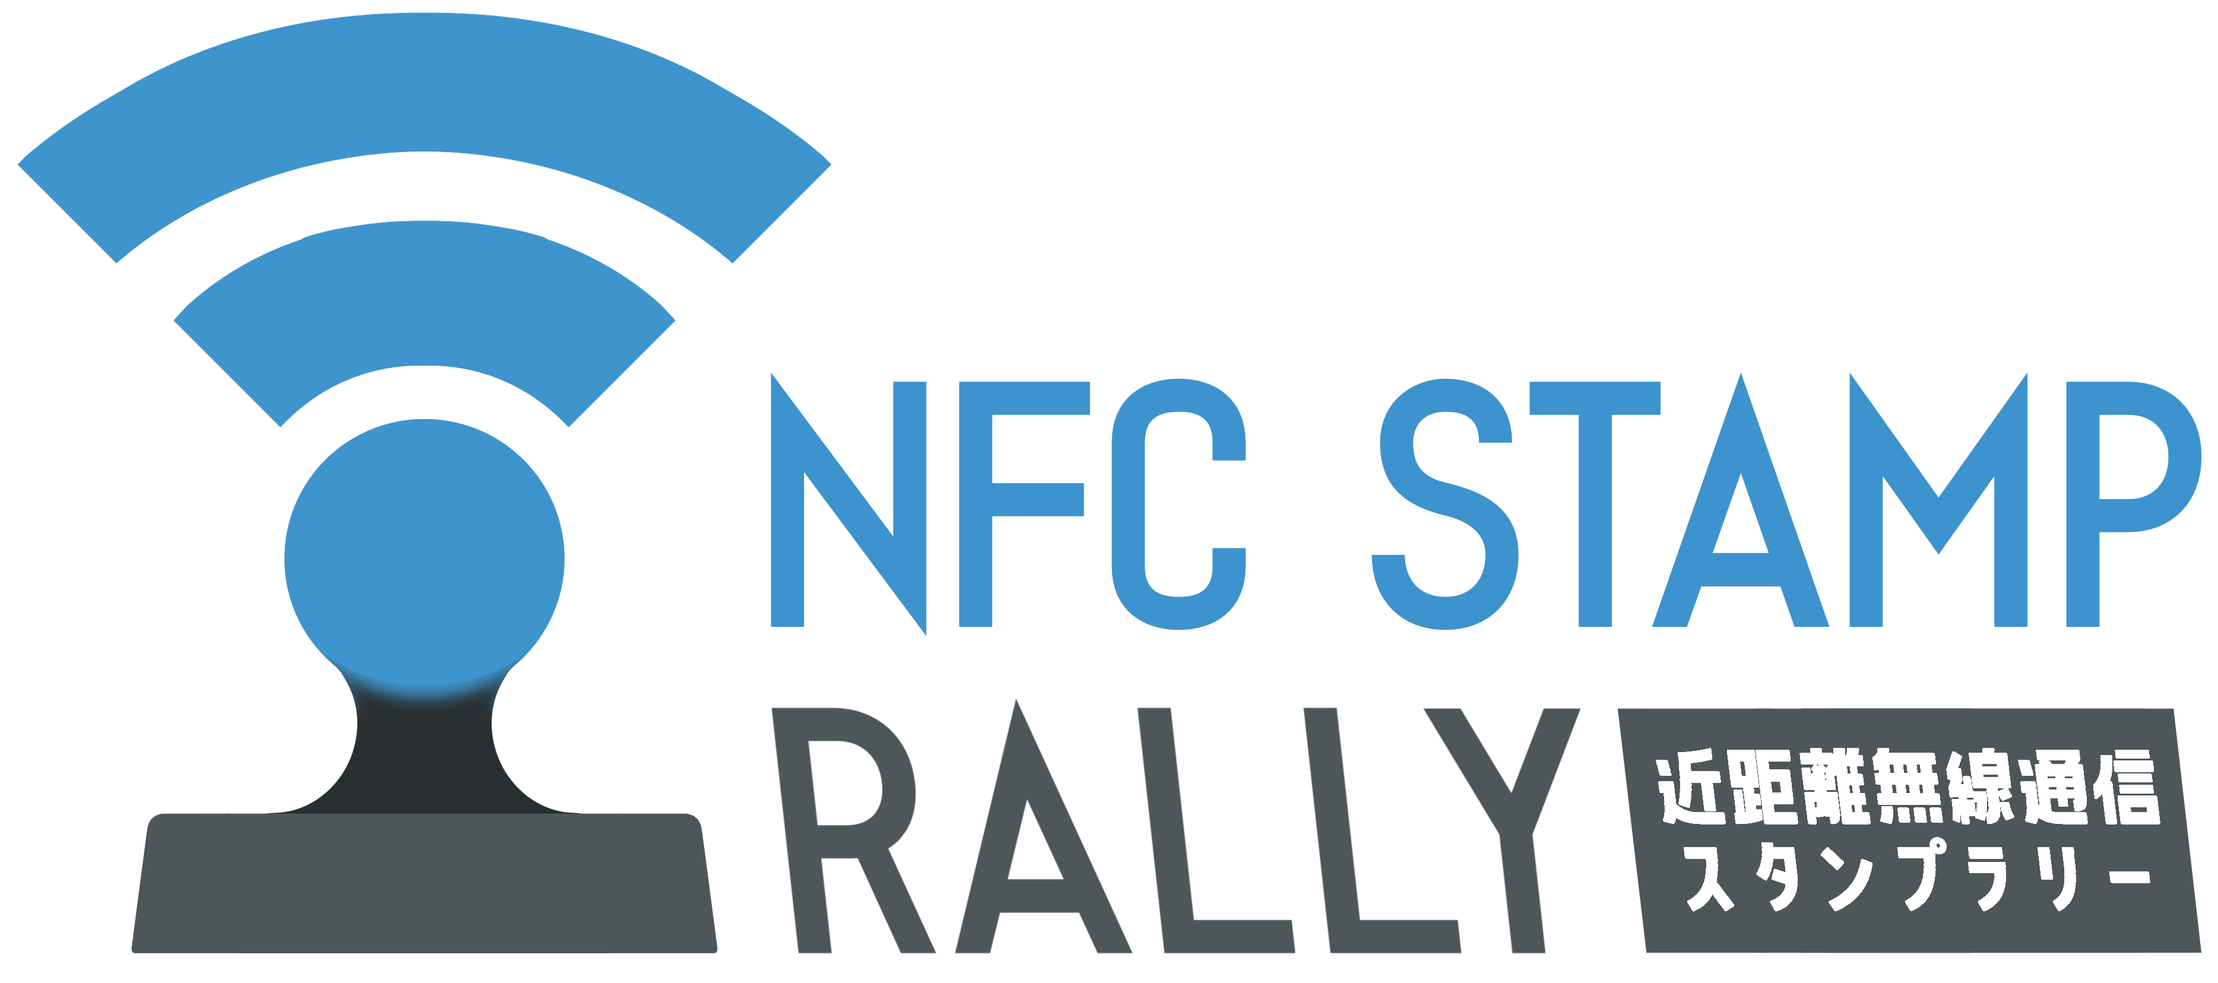
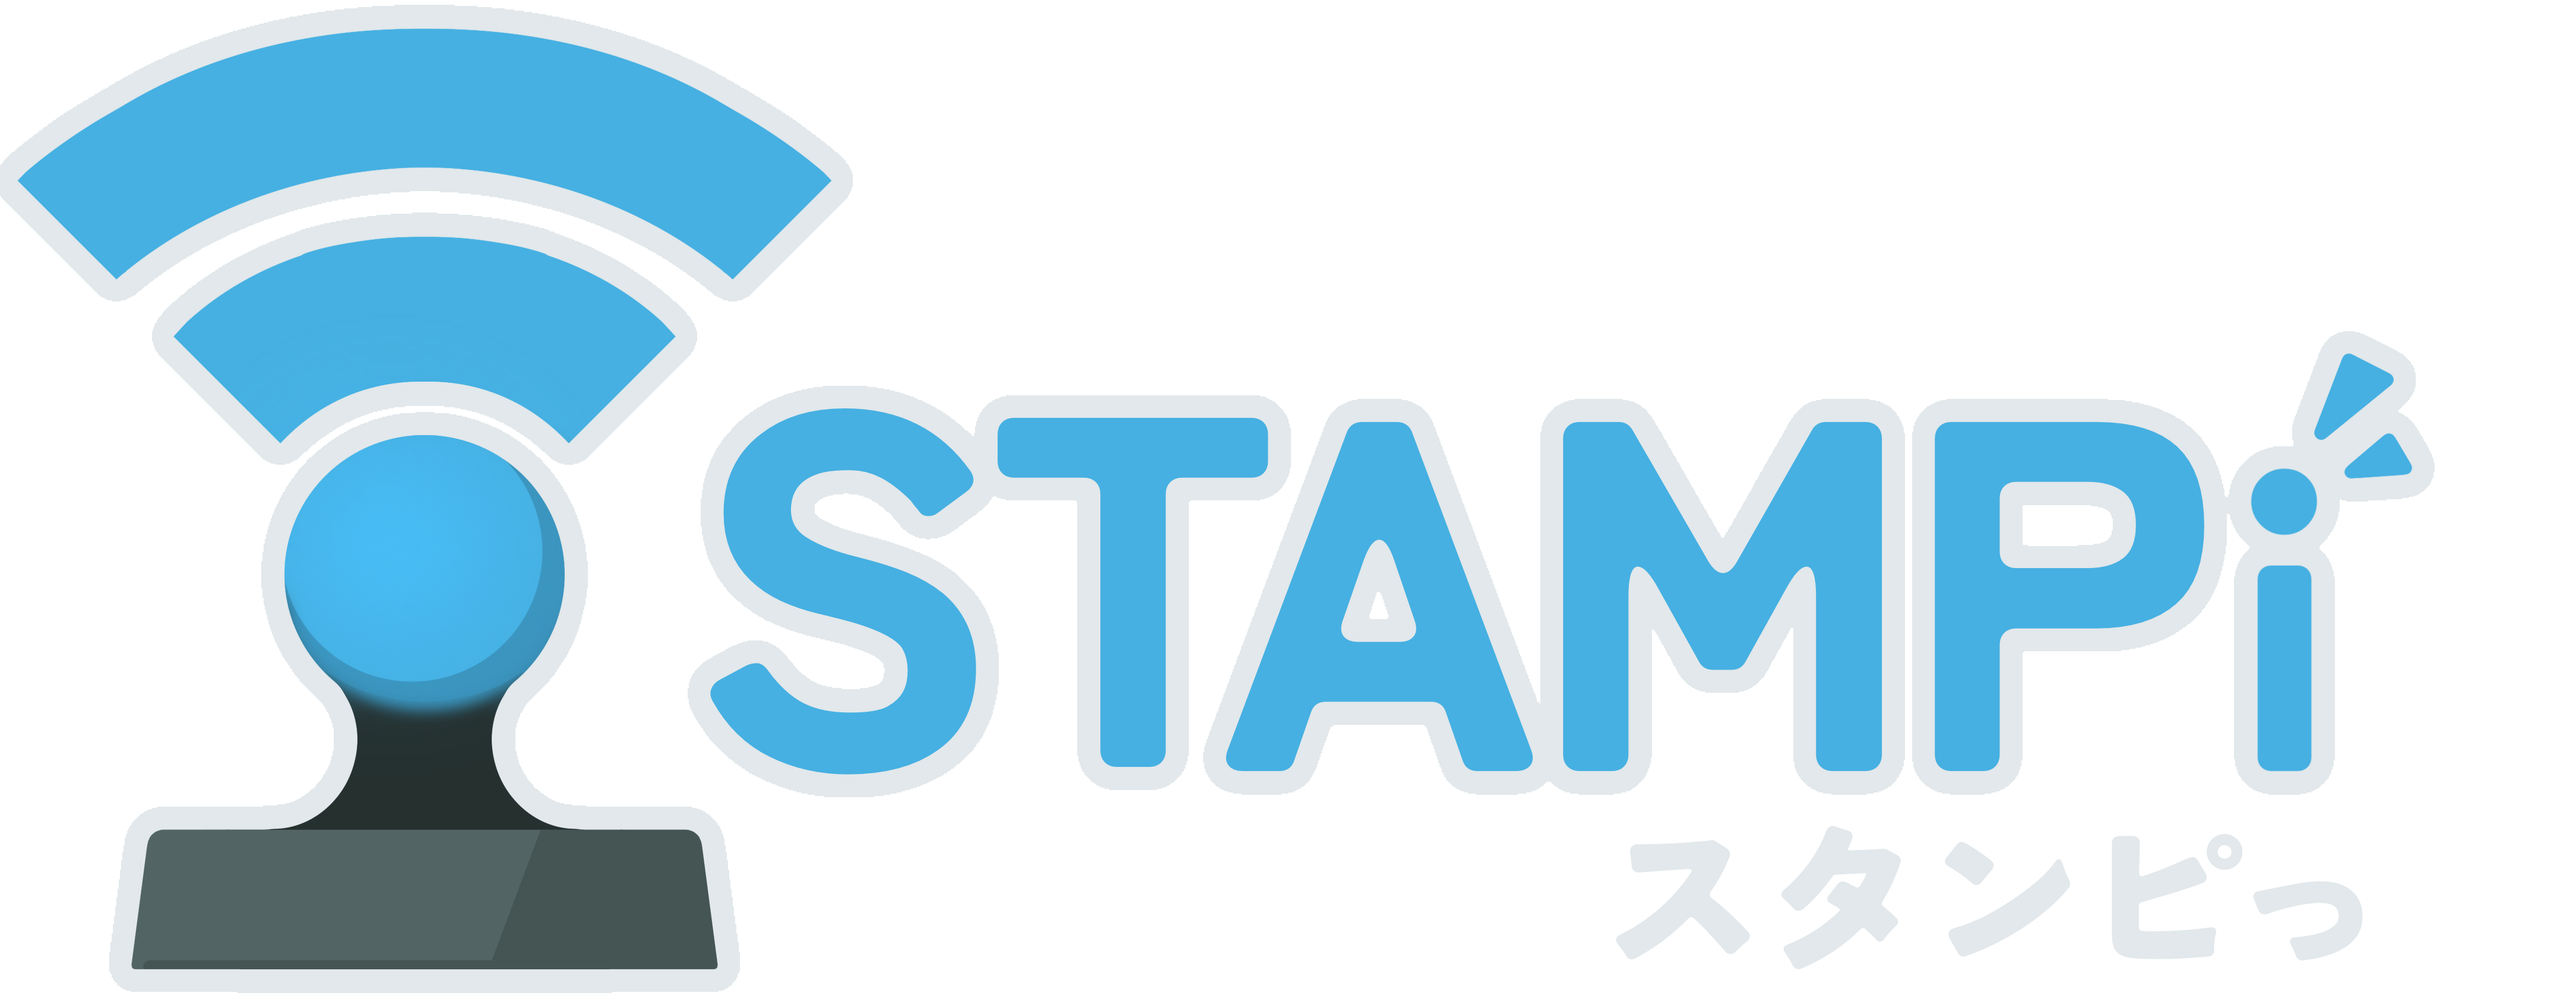
title変更＆ani変更

diff --git a/public/js/script.js b/public/js/script.js
@@ -862,72 +862,3 @@ if(toggleBtnEl) toggleBtnEl.addEventListener('click', toggleGolden);
   updateOOP();
 
 })();
-
-let currentUser = JSON.parse(localStorage.getItem('user')) || null;
-let isLoginMode = true;
-
-// 初期化：ログイン状態ならUIを更新
-document.addEventListener('DOMContentLoaded', () => {
-  if (currentUser) {
-    updateUIForLoggedInUser();
-    // 必要に応じてDBから最新状態を取得し同期
-    stamps = currentUser.stamp_progress;
-    points = currentUser.points;
-    renderStamps(); // 既存の描画関数
-  }
-});
-
-function openAuthModal() {
-  document.getElementById('auth-modal').style.display = 'block';
-}
-
-function closeAuthModal() {
-  document.getElementById('auth-modal').style.display = 'none';
-}
-
-function toggleAuthMode() {
-  isLoginMode = !isLoginMode;
-  document.getElementById('auth-title').innerText = isLoginMode ? 'ログイン' : '新規登録';
-  document.getElementById('auth-toggle-text').innerText = isLoginMode ? '新規登録はこちら' : 'ログインはこちら';
-}
-
-async function handleAuth() {
-  const username = document.getElementById('auth-username').value;
-  const password = document.getElementById('auth-password').value;
-  const endpoint = isLoginMode ? '/api/auth/login' : '/api/auth/signup';
-
-  const res = await fetch(endpoint, {
-    method: 'POST',
-    headers: { 'Content-Type': 'application/json' },
-    body: JSON.stringify({ username, password })
-  });
-
-  if (res.ok) {
-    const user = await res.json();
-    currentUser = user;
-    localStorage.setItem('user', JSON.stringify(user));
-    
-    // DBのデータでローカルを上書き
-    stamps = user.stamp_progress;
-    points = user.points;
-    
-    updateUIForLoggedInUser();
-    closeAuthModal();
-    renderStamps(); 
-    alert(isLoginMode ? 'ログインしました' : '登録が完了しました');
-  } else {
-    const err = await res.json();
-    alert(err.error);
-  }
-}
-
-function updateUIForLoggedInUser() {
-  document.getElementById('auth-trigger-btn').style.display = 'none';
-  document.getElementById('user-info').style.display = 'block';
-  document.getElementById('display-username').innerText = currentUser.username;
-}
-
-function logout() {
-  localStorage.removeItem('user');
-  location.reload(); // 状態リセットのためリロード
-}

diff --git a/public/css/stylesheet.css b/public/css/stylesheet.css
@@ -277,20 +277,6 @@ html, body{
   padding-top: 6px;
   padding-left: 6px;
 }
-.title-glass{
-  display: inline-flex;
-  align-items: center;
-  justify-content: center;
-  padding: 10px 12px;
-  border-radius: 18px;
-}
-.title-glass{
-  display: inline-flex;
-  align-items: center;
-  justify-content: center;
-  padding: 10px 12px;
-  border-radius: 18px;
-}
 
 /* .title-big{
   font-size: clamp(44px, 10vw, 64px);
@@ -308,12 +294,9 @@ html, body{
   width: min(220px, 58vw);
   max-width: 240px;
   height: auto;
-  margin-top: 0;
+  margin-top: 6px;
   object-fit: contain;
-  filter:
-    drop-shadow(0 6px 16px rgba(0,0,0,0.18))
-    drop-shadow(0 0 10px rgba(255,255,255,0.45))
-    drop-shadow(0 0 2px rgba(255,255,255,0.7));
+  filter: none;
  }
 
 .oop-pill{
@@ -628,6 +611,7 @@ html, body{
   line-height: 1;
   box-shadow: 0 6px 14px rgba(0,0,0,.12);
 }
+
 
 .chips-btn{ color:#4aa8ff; }
 .scan-mini{ color:#08304b; }
@@ -1352,12 +1336,9 @@ html, body{
   width: min(220px, 58vw);
   max-width: 240px;
   height: auto;
-  margin-top: 0;
+  margin-top: 6px;
   object-fit: contain;
-  filter:
-    drop-shadow(0 6px 16px rgba(0,0,0,0.18))
-    drop-shadow(0 0 10px rgba(255,255,255,0.45))
-    drop-shadow(0 0 2px rgba(255,255,255,0.7));
+  filter: none;
  }
 
 .oop-pill{

diff --git a/public/index.html b/public/index.html
@@ -28,9 +28,7 @@
       <!-- Header -->
       <header class="header">
         <div class="title">
-          <div class="title-glass glass">
-            <img class="title-png" src="./images/NEW_title.png" alt="NFCスタンプラリー">
-          </div>
+          <img class="title-png" src="./images/NEW_title.png" alt="NFCスタンプラリー">
           <!-- <div class="title-big">NFC</div>
           <div class="title-sub">スタンプラリー</div> -->
         </div>
